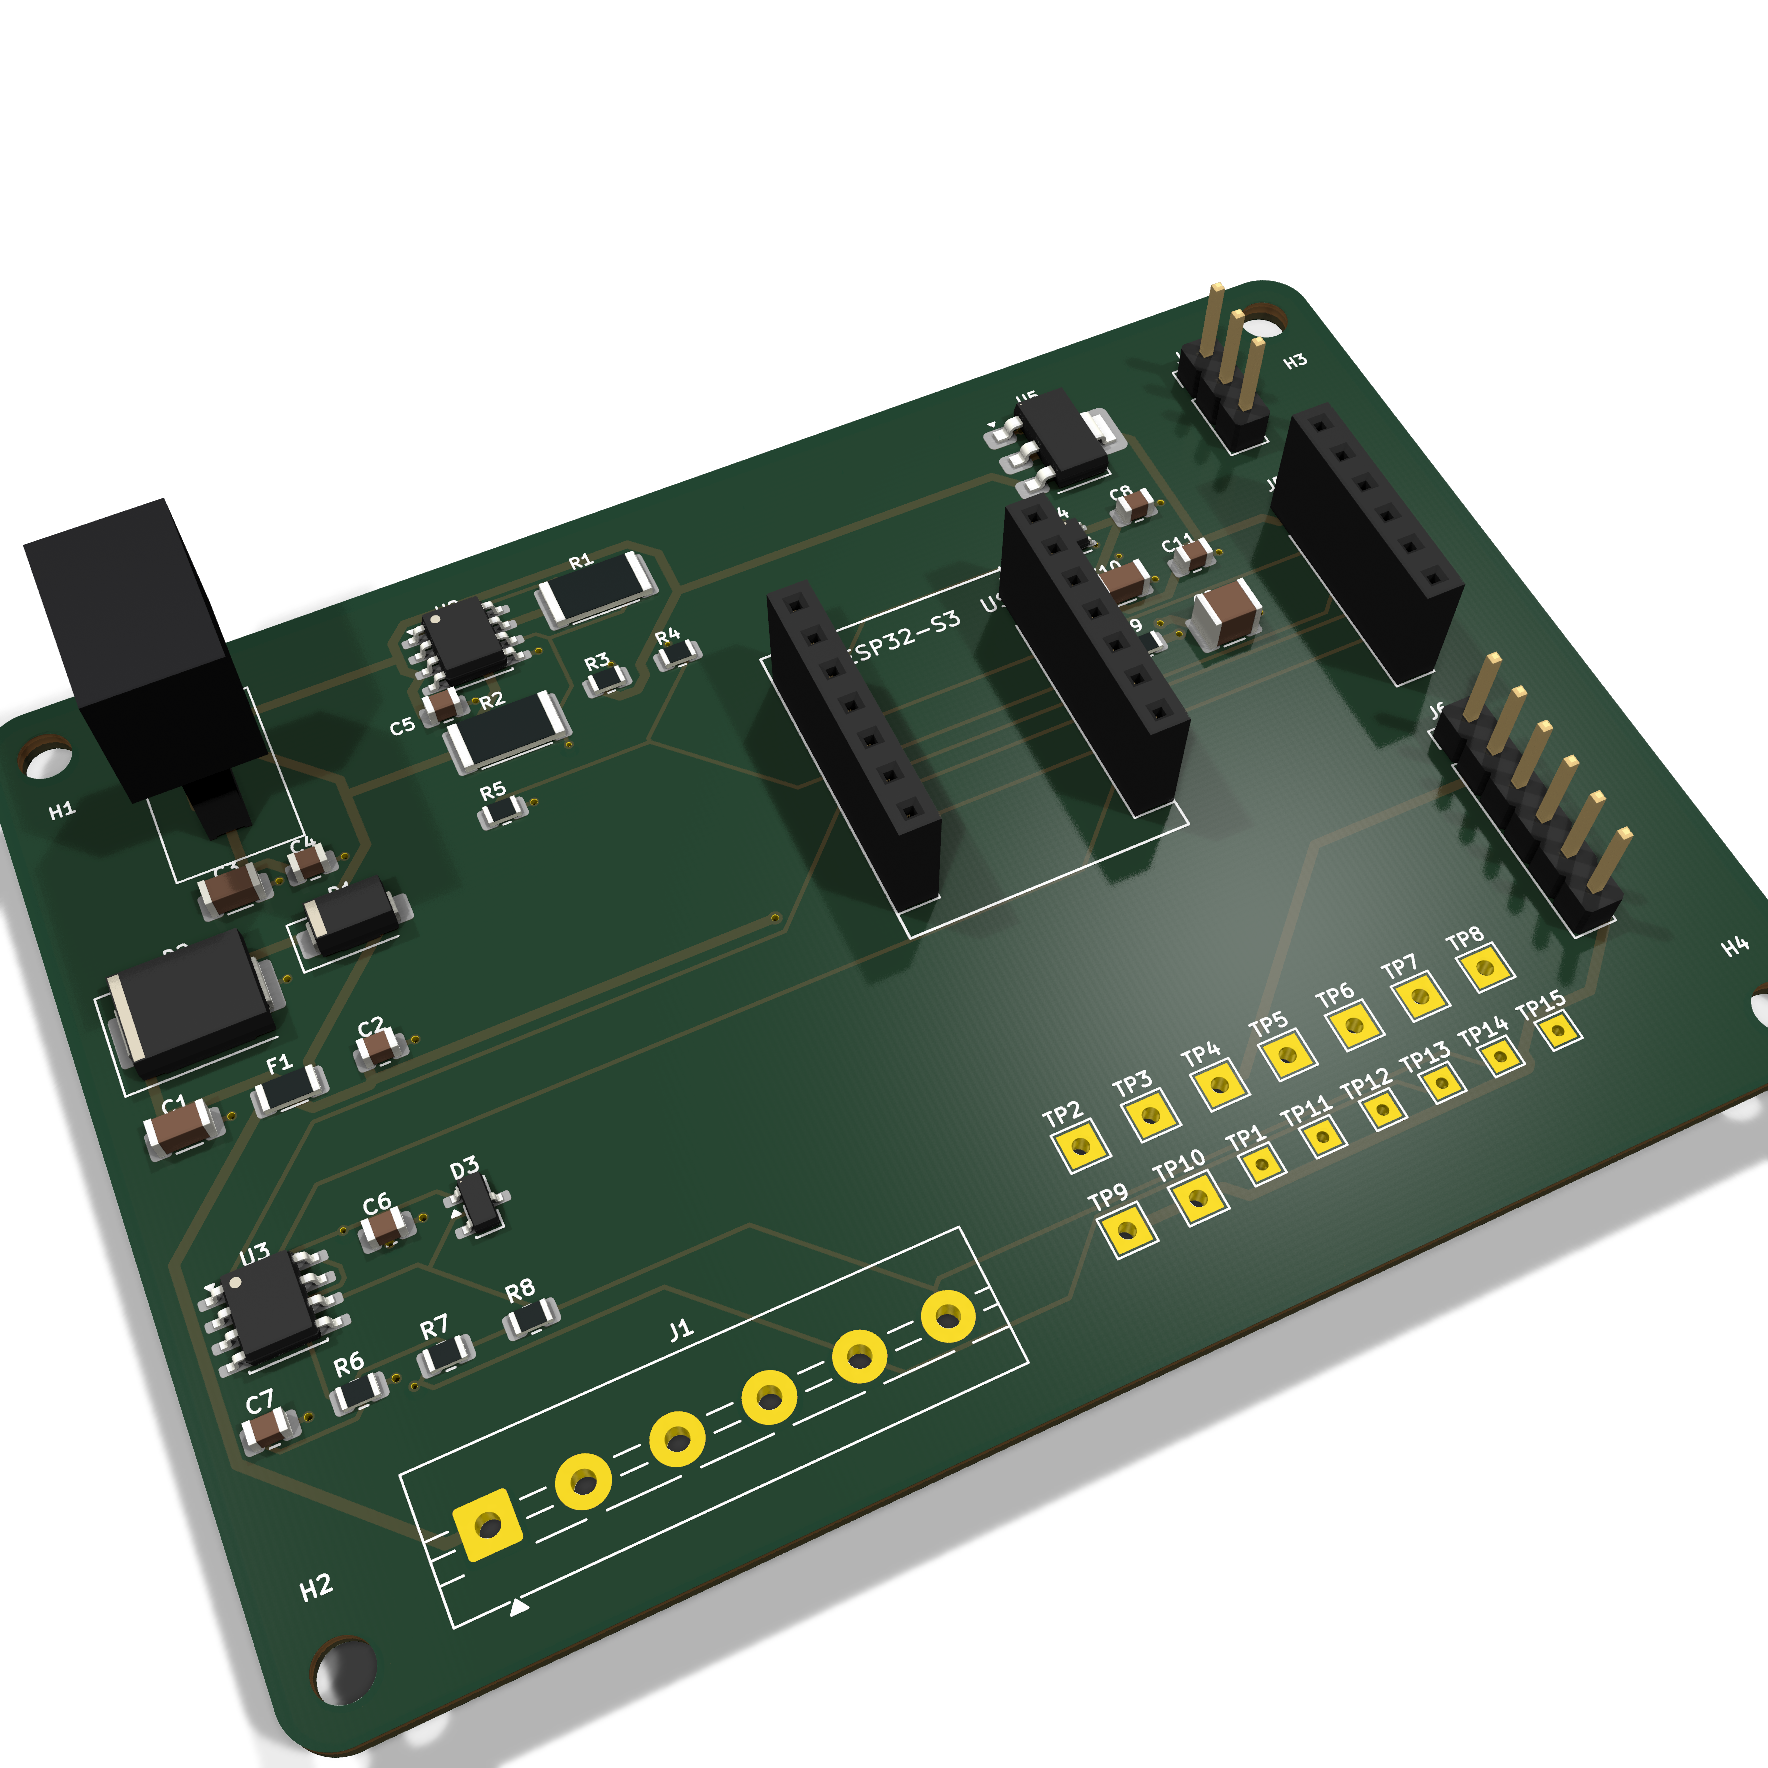
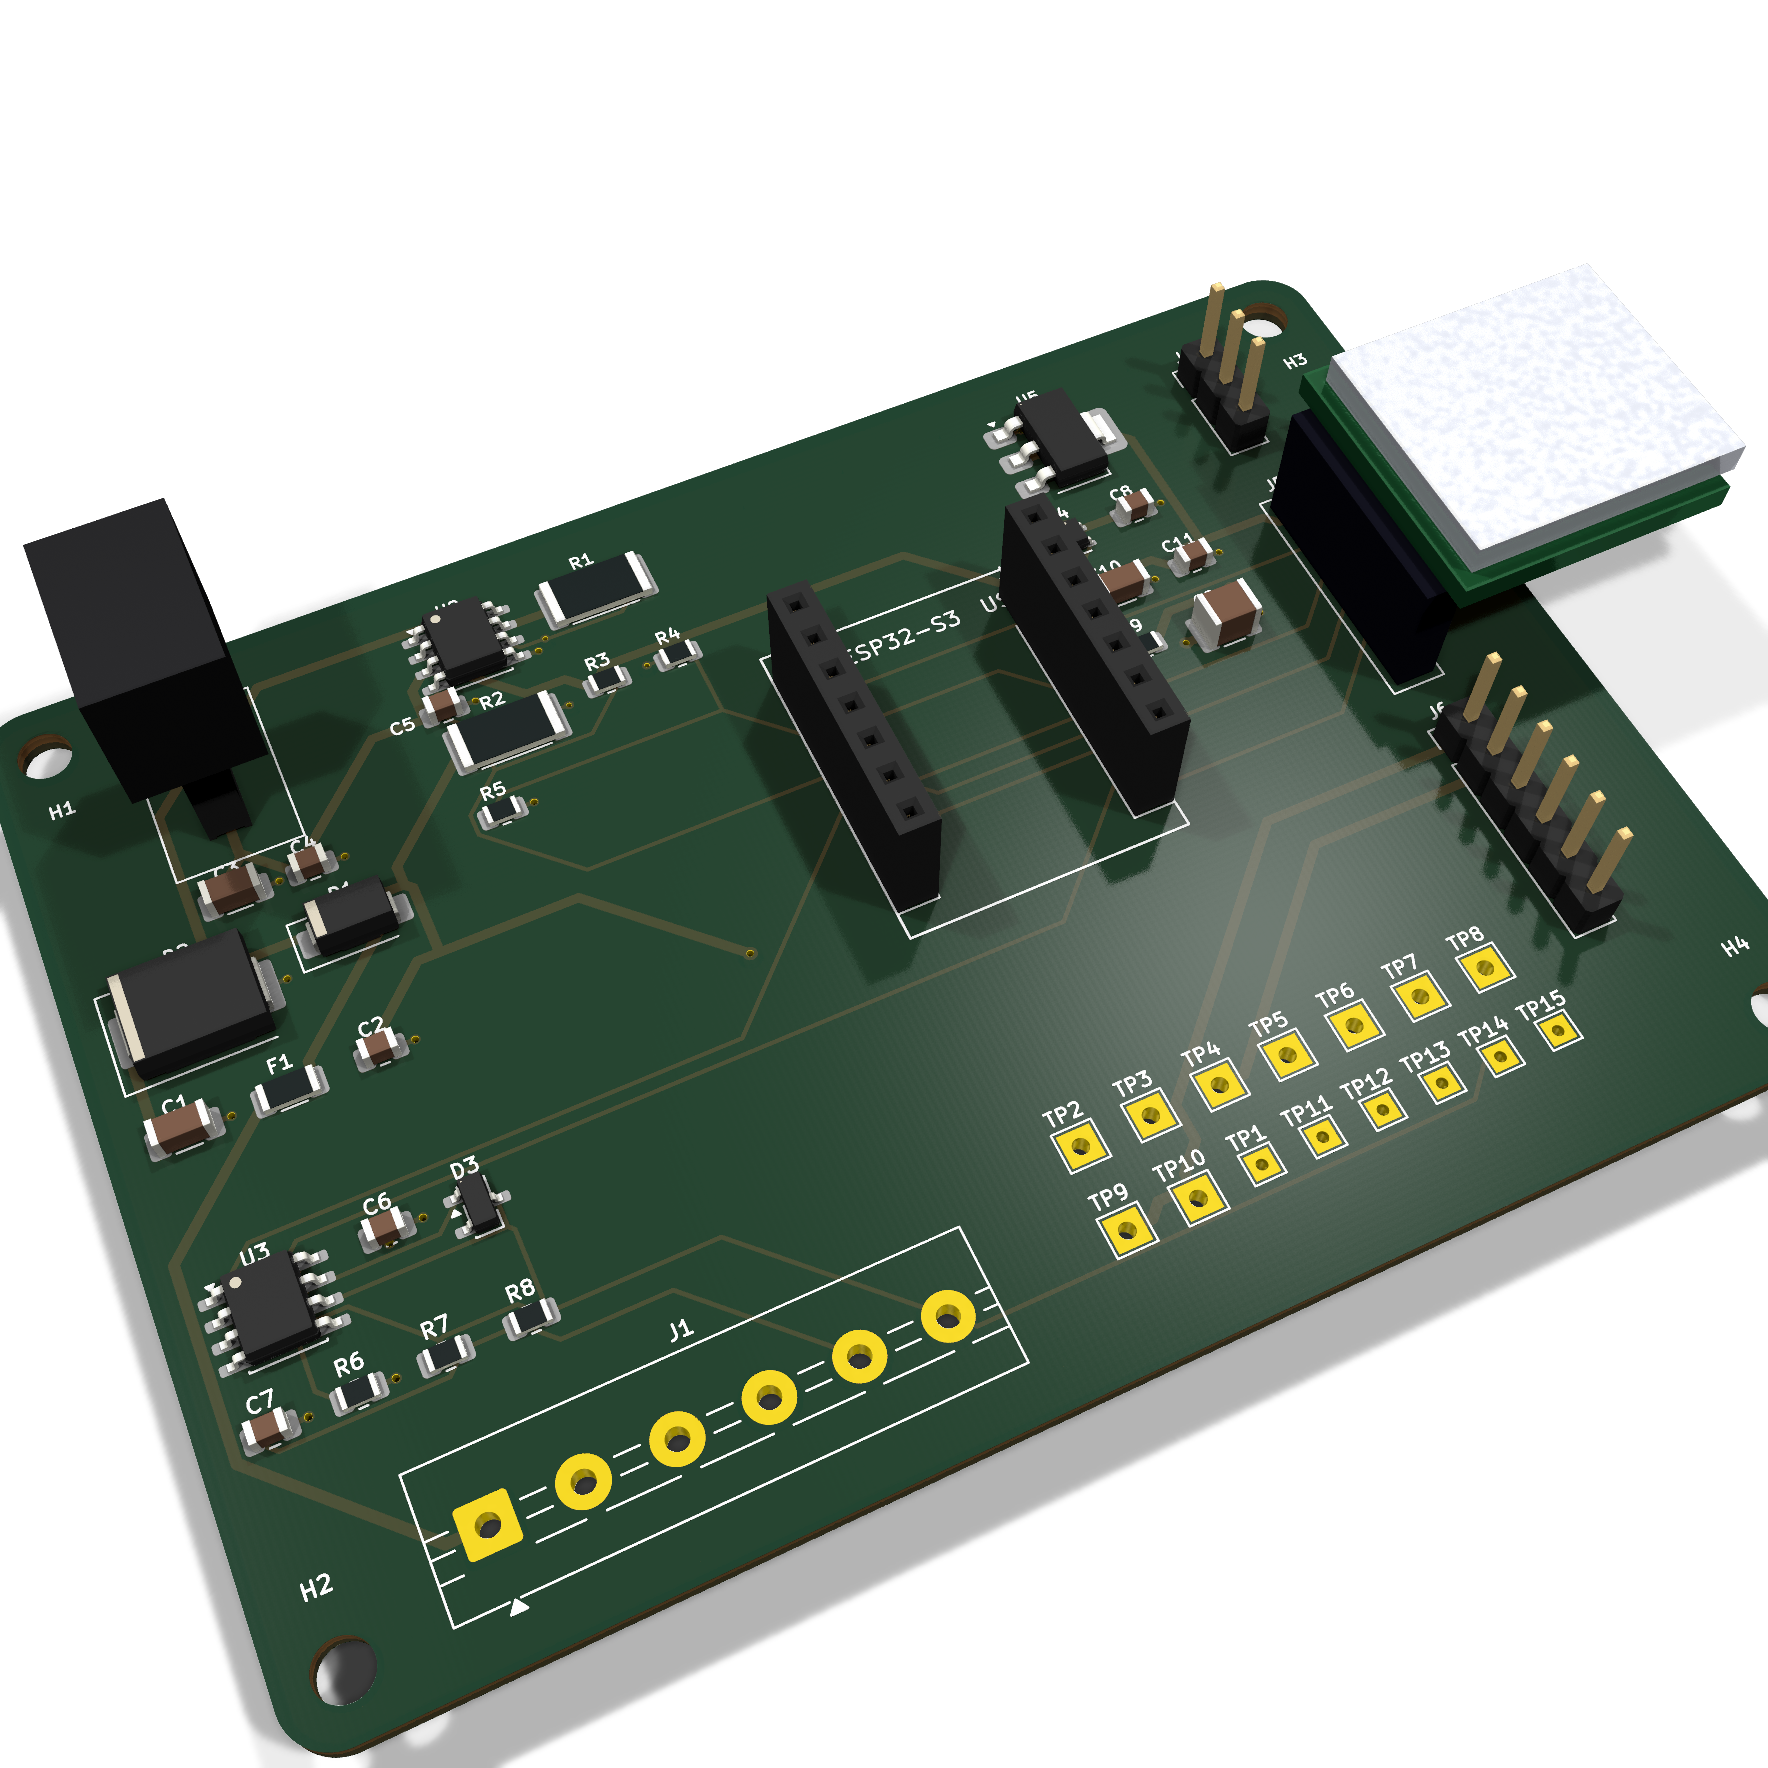
R53 hardware post: the microSD socket was oriented backwards, then fixed
Added a section on the J5 footprint mistake: guessed at 15 x 15 mm, then
"fixed" by turning the module to face inward over the board once the real
18-20 mm size wouldn't clear facing outward. That fix solved the wrong
problem -- a card slot facing the board interior isn't reachable regardless
of what fits underneath it. The real fix was to face it outward, onto the
board edge, and let it overhang on purpose: the enclosure is cut away above
it so the card comes out without opening the case.

New image: the measured module against the board, replacing the earlier
guessed-size drawing. 3D render and routed top view refreshed to match.

Claude-Session: https://claude.ai/code/session_012vY2AL7TdE1MLPdhdjEZv9

diff --git a/_posts/2026-08-27-r53-kline-canbus-bridge-hardware.md b/_posts/2026-08-27-r53-kline-canbus-bridge-hardware.md
@@ -197,6 +197,22 @@ That regulator is the one part on this board whose heat is a decision rather tha
 
 Roughly 300 mA of headroom, which is fine for a card and not fine for a card plus something hungry. Anything added later goes on its own regulator, or takes 5 V and makes its own.
 
+### The socket footprint was guessed, then built backwards
+
+J5 started as a stock `PinSocket_1x06` — which is exactly the mistake the 5 V module footprint made earlier in this project and was supposed to have taught me not to repeat. A stock socket footprint describes the socket. The thing that occupies the space is the module standing in it, and nothing checked whether that module actually fit.
+
+I guessed 15 × 15 mm. A photo of the real part, ruler included, said otherwise:
+
+![The microSD breakout, measured](/assets/images/r53-kline-bridge/pcb-sd-clearance.png)
+
+18 × 18 mm PCB, 20 mm across including the folded-steel card-slot shell. Building the footprint against that number instead of the guess, I turned the module to face *inward*, over the board, reasoning that facing outward it would hang most of its length off the 10 mm of clear board past J5. Facing inward it collided with four other parts the moment the real size replaced the guess — but the collision was the second problem, not the first. The first is that a microSD slot facing into the board interior is not reachable. You cannot remove a card you cannot get a finger on.
+
+The fix was to face it outward, the way J5 was placed to begin with, and let it overhang the board edge — on purpose. The enclosure gets a cutout above it, so the card comes out without opening the case:
+
+![The module as placed, overhanging the edge on purpose](/assets/images/r53-kline-bridge/pcb-3d.png)
+
+Ten millimetres of unsupported PCB, held only by the six-pin header. That reads as a defect in isolation and is a requirement in context — it is the reason J5 sits this close to the board edge at all. The lesson is not "measure the part," although that's true too. It's that a fix which makes the geometry work can still be backwards, if the reason the geometry was wrong in the first place was that something has to be reachable by a human hand.
+
 ### Two things the tooling caught that I would have missed
 
 **The TVS is drawn as a Zener.** KiCad has no unidirectional-TVS symbol, and `Device:D_TVS` is the bidirectional one — which reads identically either way round. This part does not: reversed, it is a forward diode across the battery and it conducts on the first key-on. Drawing it with a cathode means the polarity audit can check it, and it does.
